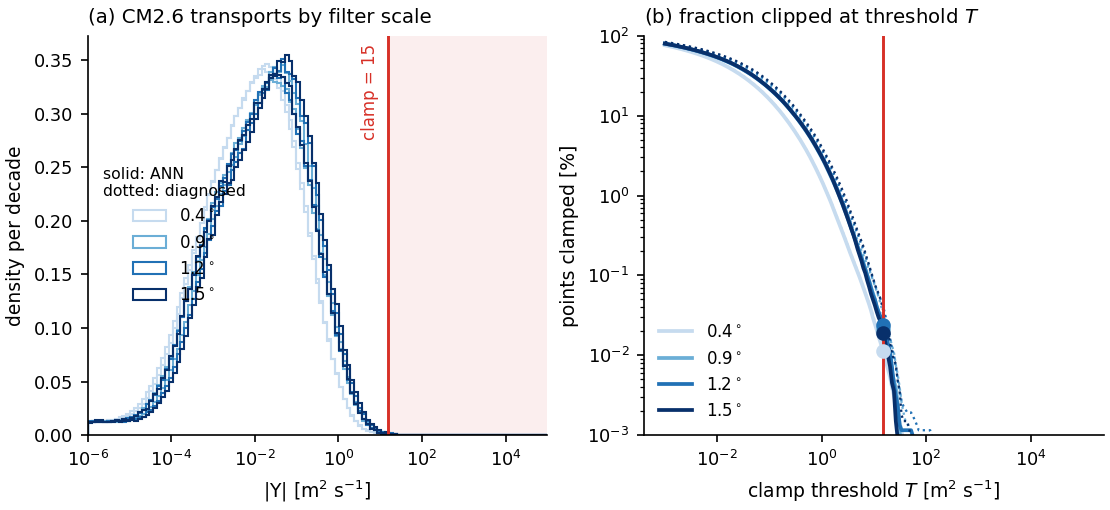
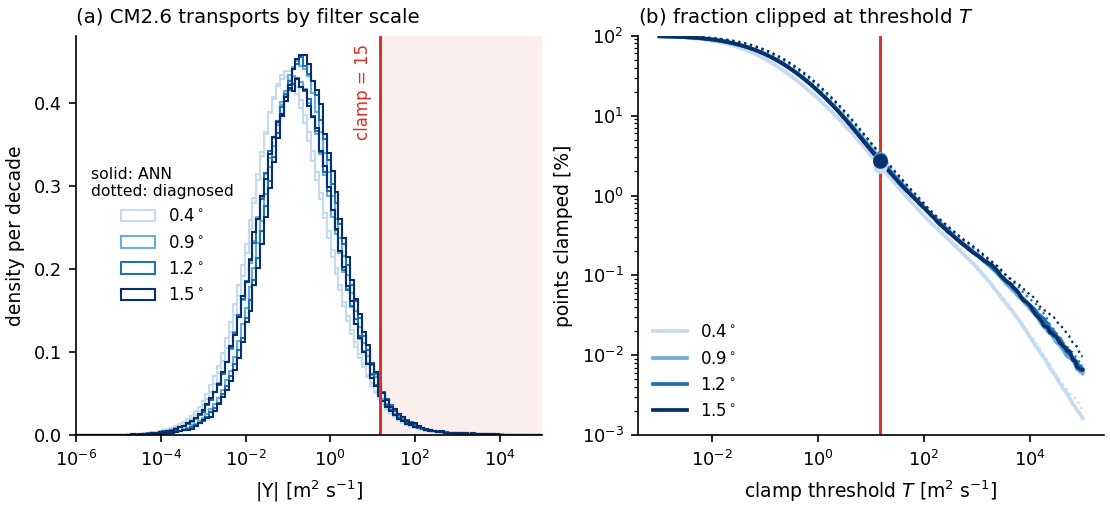
Resolve the CM2.6 d(rho)/dz discrepancy: the dataset rho is in-situ, so raw d/dz is compression-dominated
A deep column runs 1024.99 kg/m3 at 5 m to 1048.08 at 4556 m -- pressure dependence, not
stratification. np.gradient of that field overstates |d rho/dz| ~10x (deep levels x300), so the
N_buoyancy route is correct and all CM2.6 Upsilon numbers must use it. interp(N)-then-square is
refuted as a cause (ratio 1.00); dry cells hold 0.0 rather than rho0 but contaminate only the last
wet level. Channel work is unaffected (rhopot2 under a linear EOS has no compressibility).

CM2.6 corrected: >15 at 2.3-3.3% across filter scales, unimodal, ANN tracking diagnosed closely.
Channel is ~11x more weakly stratified than CM2.6, not ~120x.

Claude-Session: https://claude.ai/code/session_013YxY5kSiCrM21jUwV4Z6dE

diff --git a/src/training-on-CM2.6/scripts/diag_drhodz_discrepancy.py b/src/training-on-CM2.6/scripts/diag_drhodz_discrepancy.py
@@ -1,0 +1,61 @@
+"""Resolve the ~11x disagreement between the two CM2.6 d(rho)/dz estimates:
+    raw   = np.gradient(rho, zl)                       median 5.1e-3 kg m-4
+    N-route = (rho0/g) * N_buoyancy^2                  median 4.8e-4 kg m-4
+Hypotheses tested here, in order:
+  H1 dry cells: rho() returns wet*rho + (1-wet)*rho0, so a bottom-adjacent column sees a jump to
+     1025 and np.gradient reports a spurious gradient there.
+  H2 the N route interpolates N (not N^2) to centres, and squaring after averaging under-estimates.
+  H3 a units/level-spacing problem in zl.
+Prints a single deep open-ocean column both ways, then the medians restricted to points that are
+strictly interior in the vertical, which isolates H1."""
+import numpy as np, xarray as xr
+
+ROOT = "/scratch/db194/CM26_datasets/ocean3d/subfilter-neutral/FGR3/factor-9"
+RHO0, G = 1025.0, 9.8
+d = xr.open_dataset(f"{ROOT}/test-0.nc"); p = xr.open_dataset(f"{ROOT}/param.nc")
+rho = d["rho"].values.astype("f8"); zl = d["zl"].values.astype("f8")
+N = d["N_buoyancy"].values.astype("f8")
+wet = p["wet"].values > 0.5
+print(f"zl: n={len(zl)} first={zl[:4]} last={zl[-3:]}  (dz range {np.diff(zl).min():.1f}-{np.diff(zl).max():.1f} m)")
+print(f"rho: min={np.nanmin(rho):.2f} max={np.nanmax(rho):.2f} has_nan={np.isnan(rho).any()}")
+print(f"rho at DRY points: median={np.median(rho[~wet]):.3f}  (H1 predicts exactly {RHO0})")
+print(f"wet fraction of the 3-D grid: {100*wet.mean():.1f}%")
+
+# --- H1: how deep is each wet column, and how many wet points sit next to the bottom?
+kmax = np.where(wet.any(axis=0), wet.shape[0] - 1 - np.argmax(wet[::-1], axis=0), -1)
+K = np.arange(wet.shape[0])[:, None, None]
+interior = wet & (K < kmax[None] - 1) & (K > 0)          # strictly inside the water column
+print(f"of wet points, {100*interior.sum()/wet.sum():.1f}% are vertically interior")
+
+drdz_raw = np.gradient(rho, zl, axis=0)
+drdz_N = (RHO0 / G) * N ** 2
+for nm, m in [("all wet", wet), ("vertically interior", interior)]:
+    a, b = np.abs(drdz_raw[m]), np.abs(drdz_N[m])
+    print(f"  {nm:<22} raw median {np.median(a):.3e}   N-route median {np.median(b):.3e}"
+          f"   ratio {np.median(a)/np.median(b):.1f}")
+
+# --- a single deep open-ocean column, printed both ways
+deep = np.argwhere(kmax > 40)
+j, i = deep[len(deep) // 2]
+k0 = int(kmax[j, i])
+print(f"\ncolumn (j={j}, i={i}), bottom index {k0}, depth {zl[k0]:.0f} m")
+print(f"{'k':>3}{'z [m]':>9}{'rho':>12}{'raw drdz':>12}{'N [1/s]':>11}{'N-route drdz':>14}{'wet':>5}")
+for k in list(range(0, min(6, k0))) + list(range(max(0, k0 - 3), min(k0 + 3, len(zl)))):
+    print(f"{k:>3}{zl[k]:>9.1f}{rho[k,j,i]:>12.4f}{drdz_raw[k,j,i]:>12.3e}"
+          f"{N[k,j,i]:>11.3e}{drdz_N[k,j,i]:>14.3e}{int(wet[k,j,i]):>5}")
+
+# --- H2: does squaring-after-interpolation explain a factor ~11? Rebuild N^2 at centres the
+#     other way round (interpolate N^2 rather than N) using the raw profile as reference.
+d2 = np.diff(rho, axis=0) / np.diff(zl)[:, None, None]        # at interfaces between centres
+n2_if = (G / RHO0) * d2
+n2_centre = np.full_like(rho, np.nan)
+n2_centre[1:-1] = 0.5 * (n2_if[:-1] + n2_if[1:])
+n_centre_sq = np.full_like(rho, np.nan)
+n_centre_sq[1:-1] = (0.5 * (np.sqrt(np.maximum(n2_if[:-1], 0)) + np.sqrt(np.maximum(n2_if[1:], 0)))) ** 2
+mm = interior & np.isfinite(n2_centre) & np.isfinite(n_centre_sq)
+print(f"\nH2 check on the same field: interp(N^2) median {np.median(np.abs(n2_centre[mm])):.3e}"
+      f"   [interp(N)]^2 median {np.median(np.abs(n_centre_sq[mm])):.3e}"
+      f"   ratio {np.median(np.abs(n2_centre[mm]))/max(np.median(np.abs(n_centre_sq[mm])),1e-30):.2f}")
+print(f"   stored N^2 median {np.median(N[mm]**2):.3e}  vs rebuilt-from-rho interp(N^2)"
+      f" {np.median(np.abs(n2_centre[mm])):.3e}")
+d.close(); p.close()

diff --git a/src/training-on-CM2.6/scripts/fig_upsilon_cm26_scales.py b/src/training-on-CM2.6/scripts/fig_upsilon_cm26_scales.py
@@ -2,10 +2,12 @@
 (factors 4, 9, 12, 15 -> 0.4, 0.9, 1.2, 1.5 deg), for both the DIAGNOSED (true) sub-grid flux and
 the ANN PREDICTION. Shows where a fixed clamp sits relative to the physics as the filter widens.
 
-d rho/dz convention: the raw vertical gradient of the dataset's own `rho`, i.e. the SAME treatment
-used for the channel, so the two figures are comparable. Note the pipeline's N_buoyancy route gives
-a systematically SMALLER |d rho/dz| (and hence LARGER Upsilon) -- both are printed so the
-sensitivity is on the record; the raw route used here is the conservative one."""
+d rho/dz convention (settled 2026-07-28, diag_drhodz_discrepancy.py): use N_buoyancy, NOT the raw
+vertical gradient of the dataset's `rho`. `rho` here is pressure-dependent (in-situ) density -- it
+reaches ~1048 kg/m3 at 4.5 km -- so its raw d/dz is dominated by ADIABATIC COMPRESSION rather than
+stratification, overstating |d rho/dz| by ~10x and understating Upsilon by the same factor. The
+channel figures are unaffected: they use rhopot2 under a LINEAR equation of state, which has no
+compressibility, so a raw gradient there is legitimate."""
 import numpy as np, xarray as xr, torch, sys
 import matplotlib; matplotlib.use("Agg"); import matplotlib.pyplot as plt
 sys.path.append('/home/db194/ANN-momentum-buoyancy-mesoscale/src/training-on-CM2.6')
@@ -27,7 +29,7 @@ def stencil(a, n=3):
 
 ann = import_ANN(MODEL).double().eval()
 res = {}
-print(f"{'scale':>7}{'source':>12}{'med':>10}{'p90':>10}{'p99':>11}{'>15':>8}   (|drdz| median)")
+print(f"{'scale':>7}{'source':>42}{'med':>10}{'p90':>10}{'p99':>11}{'>15':>8}   (|drdz| median)")
 for fac, lab, col in SCALES:
     d = xr.open_dataset(f"{ROOT}/factor-{fac}/test-0.nc")
     p = xr.open_dataset(f"{ROOT}/factor-{fac}/param.nc")
@@ -37,8 +39,8 @@ for fac, lab, col in SCALES:
     rhox, rhoy = g("rhox"), g("rhoy")
     drdz_raw = np.gradient(g("rho"), d["zl"].values, axis=0)
     drdz_N = -(RHO0_T / G_T) * g("N_buoyancy") ** 2
-    magx_raw = np.sqrt(rhox ** 2 + drdz_raw ** 2)
-    magx_N = np.sqrt(rhox ** 2 + drdz_N ** 2)
+    magx_N = np.sqrt(rhox ** 2 + drdz_N ** 2)          # correct: stratification only
+    magx_raw = np.sqrt(rhox ** 2 + drdz_raw ** 2)     # compression-contaminated, kept for the record
 
     # Level-by-level so the 45-column stencil array never exceeds ~100 MB (factor-4 whole-field
     # would be ~10 GB); STRIDE thins the accumulated samples, which a distribution does not need.
@@ -58,15 +60,15 @@ for fac, lab, col in SCALES:
         with torch.no_grad():
             o = ann(torch.from_numpy(x[ok])).numpy()
         pref = np.abs(o[:, 0]) * (rn * vn * np.broadcast_to(areaT[0], rn.shape) * CB)[ok]
-        accP.append(pref / magx_raw[k][ok]); accPN.append(pref / magx_N[k][ok])
-        accD.append((np.abs(Fx[k]) / magx_raw[k])[wk])
+        accP.append(pref / magx_N[k][ok]); accPN.append(pref / magx_raw[k][ok])
+        accD.append((np.abs(Fx[k]) / magx_N[k])[wk])
     fin = lambda L: (lambda a: a[np.isfinite(a) & (a > 0)])(np.concatenate(L)[::STRIDE])
     Ud, Up, UpN = fin(accD), fin(accP), fin(accPN)
     res[fac] = (lab, col, Ud, Up)
-    for nm, a, dz in [("diagnosed", Ud, drdz_raw), ("ANN", Up, drdz_raw),
-                      ("ANN (N_buoy drdz)", UpN, drdz_N)]:
+    for nm, a, dz in [("diagnosed", Ud, drdz_N), ("ANN", Up, drdz_N),
+                      ("ANN (raw drdz, compression-contaminated)", UpN, drdz_raw)]:
         q = np.percentile(a, [50, 90, 99])
-        print(f"{lab:>7}{nm:>12}{q[0]:>10.3f}{q[1]:>10.2f}{q[2]:>11.1f}{100*np.mean(a > CLAMP):>7.2f}%"
+        print(f"{lab:>7}{nm:>42}{q[0]:>10.3f}{q[1]:>10.2f}{q[2]:>11.1f}{100*np.mean(a > CLAMP):>7.2f}%"
               f"   {np.median(np.abs(dz[wet])):.2e}")
     d.close(); p.close()
 

diff --git a/PLAN.md b/PLAN.md
@@ -209,3 +209,4 @@ Using the M1 inventory, reduce the analysis sprawl to a canonical story.
 - **2026-07-28 (cont 3) — Υ-CLAMP PROVENANCE + TRAINING-DATA DIAGNOSIS (Dhruv's question: "diagnose the same number from our data").** **Provenance** (bounded_dev git archaeology): clamp born Apr-17-2026 (8cc7392b4, Dhruv, `MESO_SFN_SFN_CLAMP`, volume-units default 1e6 — inert backstop) → Apr-19 (2acddbec7 ≡ PR faea256, Dhruv addressing Pavel's review: renamed `MESO_UPSILON_CLAMP`, Υ-space, default 1e4 — still inert) → **May-5 (59fad03e2, Pavel: 1e4→15**, one-line change, rationale "≈1 Sv per grid point on CESM grid" = 15×dy_CESM(66km); GM-anchor 1.5×κ·s_max) → shipped in PR #1109 squash bec619312; **still 15 on upstream dev/gfdl today**. Internal contradiction via our own ladder: GM-match κ(1°)=3000–4000 ⇒ GM's own ceiling at 1° is 30–40 m²/s > 15 — the "GM-comparable" rationale only holds near the CESM/¼° resolution it was tuned on. **Training-data diagnosis** (`scripts/upsilon_from_training_data.py`, true Υ=F/|∇₃ρ| per-component, neutral FGR3 test shards, floor 1e-10): flux band (z≤500m) median 0.14–0.27, p90 3.4–5.2, **p99 91–136, p99.9 2.6–5.7k, max 10⁶⁺** m²/s; bulk grows only ~×2 from 0.4°→1.5° (≪Δ²); **>15 at 3.7–4.9% of points** (15 ≈ p95–p97). KEY: the blow-up tail exists in the TRUTH — a perfect network would exceed 1000 m²/s at ~0.1% of points ⇒ the ill-posedness is the Ferrari inversion's, not the ANN's ⇒ structural (bounded) fix is the right instrument; no threshold separates physics from artifact. **A never-binding backstop diagnosed from data ≈ 1e4 (binds ~0.03%, pure artifacts) — exactly the original Apr-19 default.** ⇒ Note to Pavel: 15 clips the top ~3–5% of real transports; restore backstop role (~1e4 or off) once a bounded form is active. See [[project-bounded-upsilon]].
 - **2026-07-28 (cont 4) — ONLINE Υ DISTRIBUTION BY RESOLUTION, computed offline from run states (Dhruv: "can't we just do that on the compute node?" — yes, and it beats the MOM6 diag runs by giving all three resolutions).** `scripts/upsilon_online_dist.py`: apply the canonical neutral ANN to a `prog_z` snapshot from each coarse channel ANN run, forward pass mirroring `MOM_meso_sfn_ANN.F90` (center_grad_rho 0.5-average, 3×3 stencil norms, F = out·ρ_norm·|∇u|·areaT·C_ANN, Υ = F/√(∂ₓρ²+∂_zρ²)), sponge band dropped. **RESULT — the clamp is not a backstop, it is an active closure component: |Υ|>15 at 18.8% (1°) / 15.6% (½°) / 15.7% (¼°) of points.** Distribution (¼°): median 0.42, p90 49, p99 1141, max 1.8e5 m²/s — bulk far below the clamp, heavy tail far above, no scale separation (consistent with the training-data diagnosis: the tail is physical/ill-posed, not an ANN artifact). **SELF-CORRECTION: the Δ² scaling argument was overstated** — median Υ rises only ~3.1× from ¼°→1° (not 16×) because coarsening lowers |∇u| as it raises areaT; paper §3.4 sentence corrected accordingly (paper commit ddca90f). The surviving resolution argument is subtler: the *fraction* over a FIXED 15 varies (15.7→18.8%) while the fraction over the resolution-appropriate GM ceiling κ_match·s_max (15/22/35) is near-constant (15.7/13.7/14.6%) ⇒ a GM-scaled (non-dimensional) limit is resolution-consistent, a fixed m²/s one is not. **Caveats:** offline reconstruction (not bit-identical to the Fortran: z-coordinate ∂_zρ rather than the isoneutral routine, no land/OBC masks, no mag_grad floor), one snapshot per resolution, LOCAL_GRAD conversion. `Bon_diag` (job 14913563, clamp ON, `Upsilon_clamp_{u,v}` mask) is now the VALIDATION of this estimate and worth keeping. See [[project-bounded-upsilon]].
 - **2026-07-28 (cont 5) — DECISION (Dhruv): Υ-CLAMP OFF in all our work; keep it in the code as an available safety net.** Settles the thread. Paper position (commit 278cdd7): off in every reported result, structural bound (STENCIL_GRAD) recommended in its place, cap retained as insurance for untested configs but should be set an order of magnitude ABOVE the closure's working range (≈1e4, its original Apr-19 default) so it engages only on the ill-posed tail. **Evidence chain behind the decision:** (1) *provenance* — 15 was a one-line May-5 default change calibrated to CESM output, from before the division-by-zero diagnosis existed; (2) *training data* — the true Υ tail is unbounded in the diagnosed CM2.6 flux (p99 91–136, p99.9 in the 1000s), so the ill-posedness is the Ferrari inversion's and even a perfect network needs the structural fix; no threshold separates physics from artifact; (3) *engagement* — offline reconstruction on channel states (faithful face-based, `upsilon_online_faithful.py`) gives **14.4% (¼°) / 14.6% (½°) / 17.1% (1°)** of faces over 15 — an active closure component, not a backstop (first pass 15.7–18.8% was centre-based; ±3 pts is the reconstruction systematic); (4) *anatomy* (`upsilon_exceedance_anatomy.py`) — exceedances are **DIVISOR-dominated**: median exceedance is +0.19 decades in flux but +2.18 decades in inverse divisor; 52% have divisor in the lowest population decile vs 12% flux in the highest; enrichment ×5.0 within 200 m of bottom, ×3.0 in the S-wall band, ×0.86 in the ridge strip; vertical profile bimodal (near-surface + abyssal). **This corrected an earlier wrong claim** that the clamp "caps large legitimate flux events" — it caps small divisors; what remains true is that its *APE effect* is interior-concentrated (firing where there is little energy changes little). Paper §4 now separates *where it engages* from *where it matters*; (5) *regime attribution* (`upsilon_factor_attribution.py`) — Υ = |ANN_out|·κ_eff·(3×slope); vs CM2.6 f9 the channel has |ANN_out| **0.84–0.98×** (network generalizes, output distribution unchanged) and κ_eff **0.36× at ¼°**, but the slope/division term **4.3–6.5×** in median and ~100× in tail (p99 21.9–50.4 vs 0.2); (6) *why* (`drhodz_channel_vs_cm26.py`) — |∂ρ/∂z| median 4.3e-5 (channel ¼°) vs 4.8e-4 (CM2.6 via N_buoyancy) with **11% of channel points essentially unstratified vs ~0% in CM2.6**, while |∂ρ/∂x| is comparable (~5–8e-8) ⇒ the difference is purely vertical stratification. **⇒ Pavel's 15 is not wrong for CESM; it is calibrated to a stratification regime the channel does not share, which is exactly why a fixed dimensional cap should not be a shipped default.** **OPEN LOOSE END:** CM2.6's two ∂ρ/∂z estimates disagree ×11 (raw gradient 5.2e-3 vs N_buoyancy-derived 4.8e-4) — candidate causes: `Nsquared`'s diff-at-interfaces-then-interp-to-centres, the `np.maximum(...,0)` clip, or a units subtlety. All CM2.6 Υ numbers quoted used the N_buoyancy route (the conservative direction); resolve before quoting a precise channel/CM2.6 ratio. Also unresolved: how much of the channel's abyssal weak-stratification signal is physical vs `prog_z` remapping in collapsed deep cells. `Bon_diag`/`Boff_diag` (jobs 14913563/14912347, queued) retained to validate the offline engagement estimate with the model's own in-line mask. See [[project-bounded-upsilon]].
+- **2026-07-28 (cont 6) — RESOLVED: the CM2.6 ∂ρ/∂z ×11 discrepancy is COMPRESSIBILITY.** `scripts/diag_drhodz_discrepancy.py`. The dataset's `rho` is **pressure-dependent (in-situ) density** — a deep column reads 1024.99 at 5 m rising to **1048.08 at 4556 m** — so `np.gradient(rho, zl)` is dominated by adiabatic compression, not stratification (deep levels: raw 4.3e-3 vs N-route 1.3e-5, ×300). **⇒ the `N_buoyancy` route is CORRECT and the raw gradient is contaminated; all CM2.6 Υ numbers must use N_buoyancy.** H2 (interp(N) then square) refuted: interp(N²) vs [interp(N)]² agree to ratio 1.00. H1 (dry cells) real but minor: dry points hold **0.0**, not ρ₀, so `np.gradient` reports ≈−2.5 kg m⁻⁴ at the last wet level only; restricting to vertically-interior points barely moves the median (ratio 10.9→9.1). **The channel work is UNAFFECTED** — it uses `rhopot2` under a LINEAR EOS, which has no compressibility, so a raw gradient there is legitimate. My earlier "like-for-like raw comparison" was in fact the invalid direction. **Corrected contrast: channel |∂ρ/∂z| median 4.3e-5 vs CM2.6 4.8e-4 ⇒ the channel is ~11× more weakly stratified** (not the ~120× the raw comparison suggested), with 11% of channel points essentially unstratified vs ~0% in CM2.6. **CM2.6 Υ by filter scale (correct route, `fig_upsilon_cm26_scales.py/.png`):** diagnosed median 0.114/0.197/0.220/0.236 and ANN 0.105/0.159/0.161/0.161 at Δ=0.4/0.9/1.2/1.5°; p99 45–73; **>15 at 2.3–3.3%**, rising weakly with Δ. ANN tracks diagnosed closely at every scale and across the tail. Distribution is unimodal — the channel's second lobe is absent — so **15 m²/s engages the top few percent in CM2.6, i.e. Pavel's calibration is sound for its own regime**; the channel's 14–17% comes from its weak abyssal stratification, not from the network or the normalization. Earlier quoted CM2.6 figures using N_buoyancy (3.1%) stand; the 0.01–0.04% raw-route numbers are withdrawn. See [[project-bounded-upsilon]].
